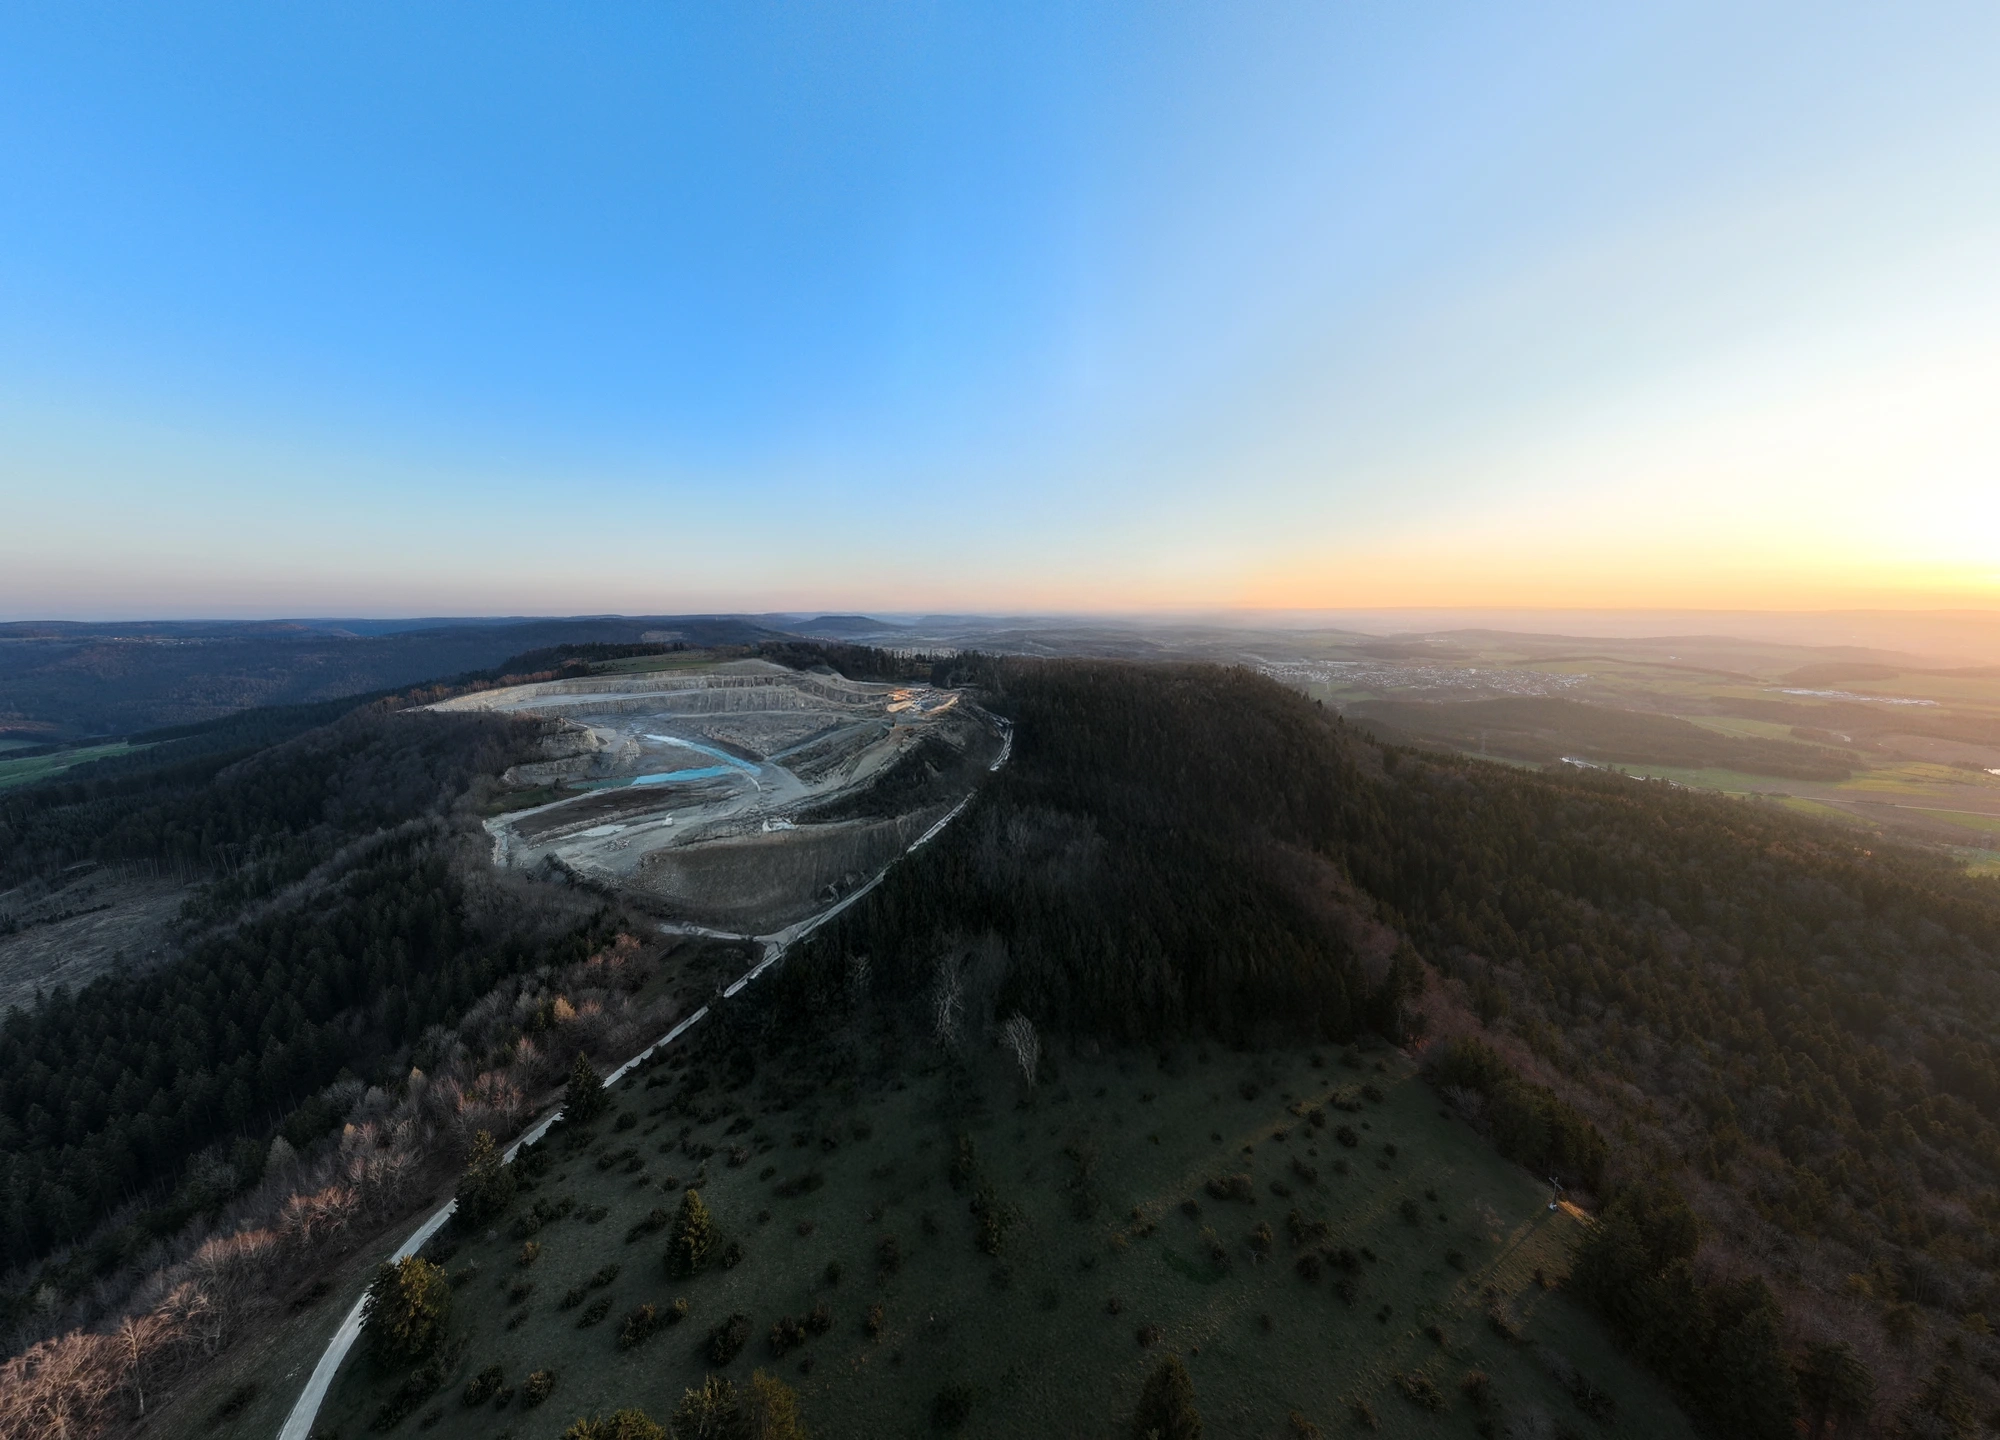
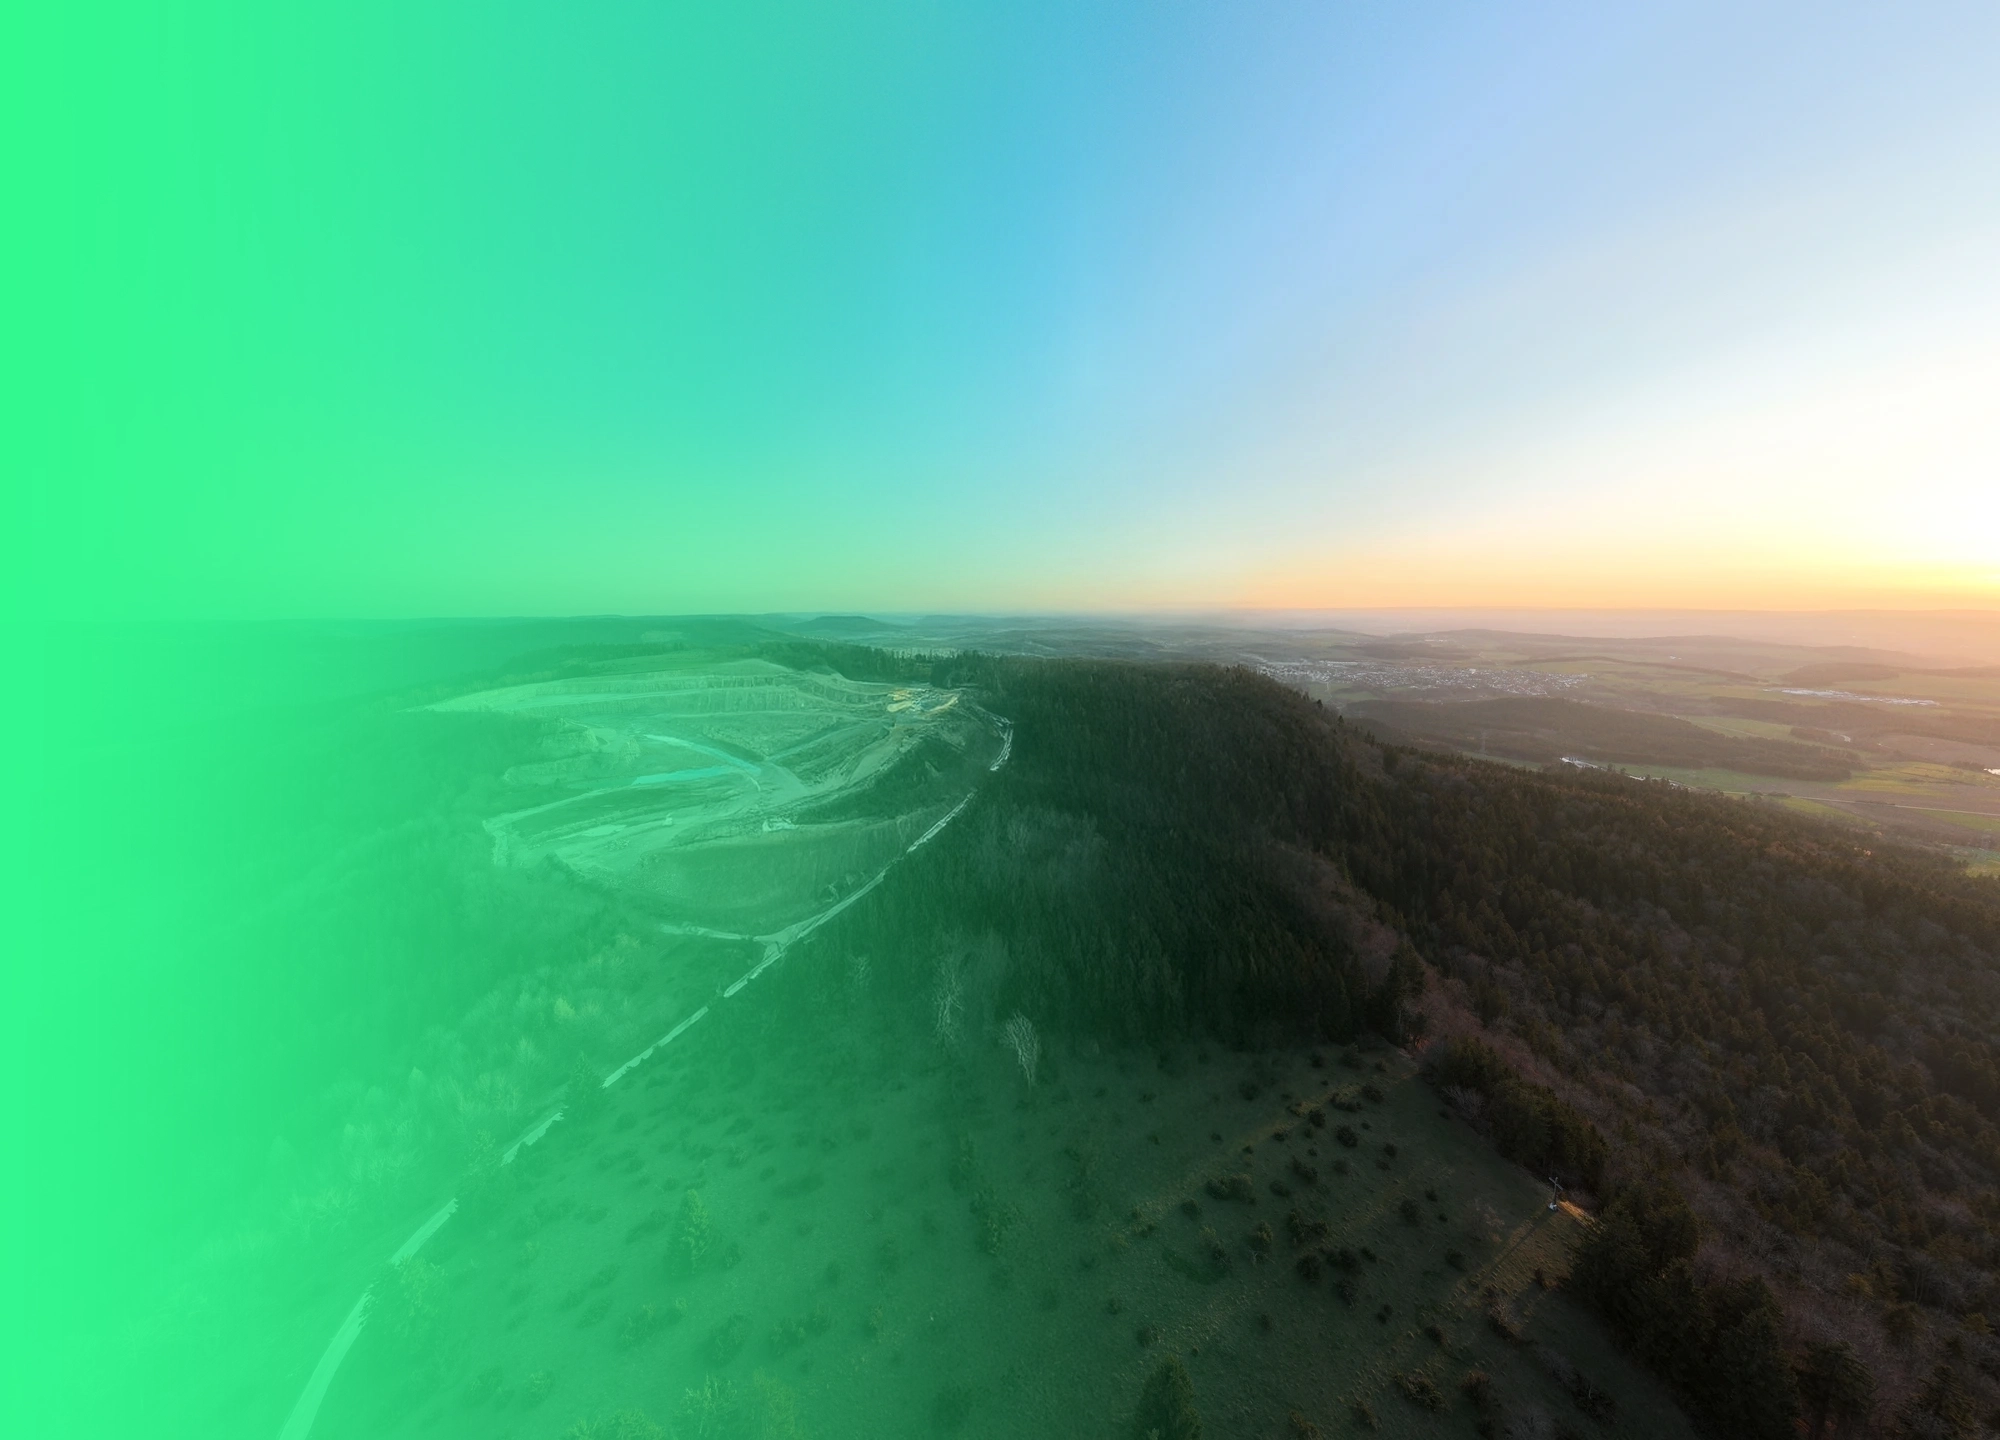
cc

diff --git a/fts_flat_corporate_design(4).html b/fts_flat_corporate_design(4).html
@@ -74,11 +74,11 @@
         .parallax-layer {
             position: absolute;
             top: -5%;
-            left: -5%;
-            width: 110%;
-            height: 110%;
+            left: 20%;
+            width: 140%;
+            height: 140%;
             will-change: transform;
-            transition: transform 0.1s cubic-bezier(0.25, 0.46, 0.45, 0.94);
+            transition: transform 1.0s cubic-bezier(0.25, 0.46, 0.45, 0.94);
         }
 
         .layer-bg {
@@ -87,7 +87,7 @@
             background-position: center center;
             z-index: 1;
             filter: grayscale(100%);
-            opacity: 0.15;
+            opacity: 0.0;
         }
 
         .layer-fg {
@@ -96,7 +96,7 @@
             background-position: center bottom;
             background-repeat: no-repeat;
             z-index: 3;
-            filter: grayscale(100%) contrast(110%);
+            filter: grayscale(100%) contrast(110%) brightness(1.1) drop-shadow(0 0 1.75rem #0000004a);
             opacity: 0.85;
         }
 
@@ -111,6 +111,10 @@
         .layer-content {
             position: absolute;
             inset: 0;
+            top: 0;
+            left: 0;
+            width: 100%;
+            height: 100%;
             z-index: 4;
             display: flex;
             align-items: center;
@@ -226,7 +230,7 @@
 <body>
 
     <header id="main-nav" class="fixed top-0 w-full z-50 nav-transparent transition-colors duration-300">
-        <div class="max-w-7xl mx-auto px-4 sm:px-6 lg:px-8">
+        <div class="max-w-[1920px] mx-auto px-6 sm:px-10 lg:px-16 xl:px-32">
             <div class="flex justify-between items-center h-20">
                 <!-- Logo -->
                 <a href="#" class="text-flat-black hover:text-mint-500 transition-colors z-50 focus-outline" id="nav-logo" aria-label="Home">
@@ -257,6 +261,12 @@
                 <div class="hidden md:flex items-center space-x-8" id="nav-links">
                     <a href="#kompetenzen" class="nav-link text-flat-black text-sm font-semibold uppercase tracking-widest py-2 focus-outline">Leistungen</a>
                     <a href="#unternehmen" class="nav-link text-flat-black text-sm font-semibold uppercase tracking-widest py-2 focus-outline">Unternehmen</a>
+                    <a href="#karriere" class="nav-link text-flat-black text-sm font-semibold uppercase tracking-widest py-2 focus-outline">Karriere</a>
+                    <div class="flex items-center space-x-2 border-l border-flat-darkgray pl-6">
+                        <a href="#" class="text-flat-black text-sm font-bold uppercase tracking-widest focus-outline">DE</a>
+                        <span class="text-flat-darkgray text-sm">/</span>
+                        <a href="#" class="text-flat-darkgray hover:text-flat-black text-sm font-semibold uppercase tracking-widest transition-colors focus-outline">EN</a>
+                    </div>
                     <a href="#kontakt" class="btn-primary px-6 py-2 text-sm uppercase tracking-widest focus-outline">Kontakt</a>
                 </div>
 
@@ -272,6 +282,11 @@
             <div class="flex flex-col px-4 py-6 space-y-4">
                 <a href="#kompetenzen" class="text-white text-sm uppercase tracking-widest pb-2 border-b border-flat-darkgray">Leistungen</a>
                 <a href="#unternehmen" class="text-white text-sm uppercase tracking-widest pb-2 border-b border-flat-darkgray">Unternehmen</a>
+                <a href="#karriere" class="text-white text-sm uppercase tracking-widest pb-2 border-b border-flat-darkgray">Karriere</a>
+                <div class="flex items-center space-x-4 pb-2 border-b border-flat-darkgray">
+                    <a href="#" class="text-mint-500 text-sm font-bold uppercase tracking-widest focus-outline">DE</a>
+                    <a href="#" class="text-flat-darkgray hover:text-white text-sm font-semibold uppercase tracking-widest transition-colors focus-outline">EN</a>
+                </div>
                 <a href="#kontakt" class="text-mint-500 text-sm uppercase tracking-widest font-bold">Kontakt</a>
             </div>
         </div>
@@ -288,8 +303,8 @@
         <div class="parallax-layer layer-fg" data-speed="0.04"></div>
 
         <!-- Content Layer -->
-        <div class="parallax-layer layer-content" data-speed="-0.01">
-            <div class="max-w-7xl mx-auto px-4 sm:px-6 lg:px-8 w-full mt-24">
+        <div class="layer-content">
+            <div class="w-full mt-24 pl-6 sm:pl-8 lg:pl-10 pr-4 sm:pr-6 lg:pr-8">
                 
                 <!-- Nüchterner Text ohne Floating Box -->
                 <div class="max-w-3xl relative z-10 pt-10">
@@ -320,7 +335,7 @@
     </section>
 
     <section class="bg-flat-darker border-b border-flat-darkgray relative z-20">
-        <div class="max-w-7xl mx-auto px-4 sm:px-6 lg:px-8">
+        <div class="max-w-[1920px] mx-auto px-6 sm:px-10 lg:px-16 xl:px-32">
             <div class="grid grid-cols-2 md:grid-cols-4 divide-x divide-y md:divide-y-0 divide-flat-darkgray border-l border-r border-flat-darkgray">
                 
                 <div class="p-6 md:p-8 flex flex-col justify-center">
@@ -352,7 +367,7 @@
     </section>
 
     <section id="kompetenzen" class="py-24 bg-flat-light">
-        <div class="max-w-7xl mx-auto px-4 sm:px-6 lg:px-8">
+        <div class="max-w-[1920px] mx-auto px-6 sm:px-10 lg:px-16 xl:px-32">
             
             <div class="mb-16 border-l-4 border-mint-500 pl-6">
                 <p class="font-mono text-mint-600 text-xs font-bold uppercase tracking-[0.2em] mb-4">
@@ -495,7 +510,7 @@
     </section>
 
     <section id="kontakt" class="py-24 bg-flat-light">
-        <div class="max-w-7xl mx-auto px-4 sm:px-6 lg:px-8">
+        <div class="max-w-[1920px] mx-auto px-6 sm:px-10 lg:px-16 xl:px-32">
             <div class="grid lg:grid-cols-12 gap-0 border border-flat-gray bg-flat-white shadow-2xl">
                 
                 <!-- Info Column -->
@@ -575,7 +590,7 @@
     </section>
 
     <footer class="bg-flat-black pt-16 pb-8 text-flat-gray border-t-4 border-mint-500">
-        <div class="max-w-7xl mx-auto px-4 sm:px-6 lg:px-8">
+        <div class="max-w-[1920px] mx-auto px-6 sm:px-10 lg:px-16 xl:px-32">
             <div class="grid grid-cols-1 md:grid-cols-12 gap-12 mb-16">
                 
                 <!-- Logo block -->